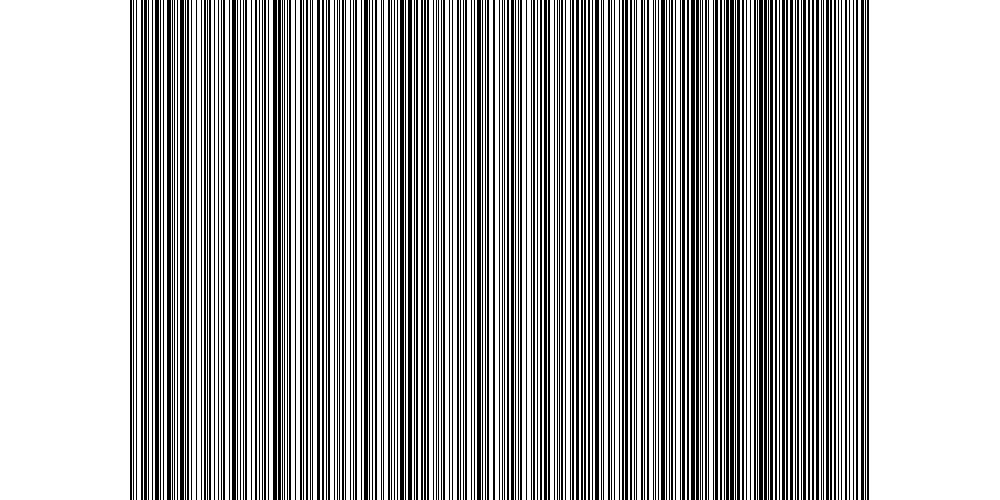
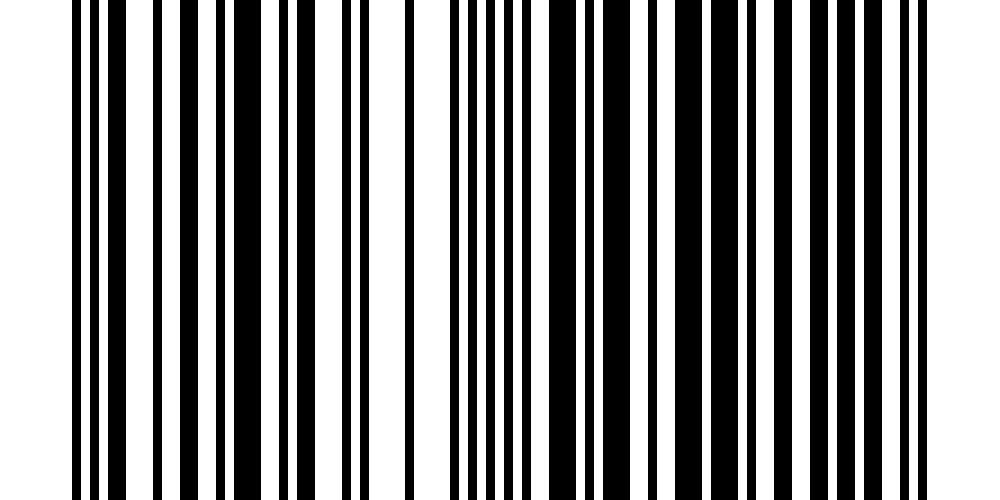
done

diff --git a/src/main/resources/public/frontend/scanner/script.js b/src/main/resources/public/frontend/scanner/script.js
@@ -1,7 +1,7 @@
 // const { Html5QrcodeScanner } = require("html5-qrcode");
 const camera = document.querySelector("#html5-qrcode-button-camera-start")
-, denied = document.querySelector(".denied")
-, granted = document.querySelector(".granted")
+// , denied = document.querySelector(".denied")
+// , granted = document.querySelector(".granted")
 const scanner =new Html5QrcodeScanner('reader',{
     qrbox:{
         width: 500,
@@ -18,19 +18,9 @@ scanner.render(success, error)
 function success(result){
    scanner.clear()
     console.log(result)
-    document.querySelector(".results").innerHTML+=`${result}<br>`
-    if(!result.includes("StoredData")){
-        setTimeout(()=>{
-            badCode();
-        }, 100)
-    }else{
-        
-         //getting uid from scan result
-    result = result.split(",")[1].split("=")[1].split(")")[0]
-        
-    console.log(result)
+    
     const data = {
-        "uid": result,
+        "idNo": result,
         "unitCode": $(".options").val()
     }
     $.ajax({
@@ -40,13 +30,17 @@ function success(result){
         data: JSON.stringify(data),
         success: function(results){
             console.log(results)
+            var newData = {
+                "idNo": results.idNo,
+                "unitCode": $(".options").val()
+            }
             if(results){
                 //found the person being authenticated
                 $.ajax({
                     type: "POST",
                     url: url+"rep/addhistory",
                     contentType: "application/json",
-                    data: JSON.stringify(data),
+                    data: JSON.stringify(newData),
                     headers:{
                         "Authorization": `Bearer ${storedData.token}`
                     },
@@ -64,25 +58,29 @@ function success(result){
     })
     }
     
-}
 
 
 function error(){
     // console.log("there was a problem")
 }
 
-
+ var results = document.querySelector(".results");
 $(".back").click(()=>{history.back()})
 
  function badCode(){ 
-    denied.play()
+    // denied.play()
+    results.style.color = "red"
+    results.innerHTML = "BAD CODE"
     scanner.render(success, error) 
     console.log("bad code provided")
   
 }
 
 function goodCode(){
-    granted.play()
+    // granted.play()
+   
+    results.style.color = "green"
+    results.innerHTML = "GOOD CODE"
     scanner.render(success, error)
     console.log("good code")
 }

diff --git a/src/main/resources/public/frontend/scanner/index.html b/src/main/resources/public/frontend/scanner/index.html
@@ -28,6 +28,10 @@
     margin: 5px;
     font-size: 15px;
     }
+    .results{
+        position: absolute;
+        font-size: 30px;
+    }
    </style>
 </head>
 <body>
@@ -41,12 +45,13 @@
     </div>
  <div class="scanner">
     <main>
-        <div id="reader"></div>
         <div class="results"></div>
+        <div id="reader"></div>
+        
     </main>
  </div>
- <audio src="../voices/accessgranted.mp3" class="granted" hidden></audio>
- <audio src="../voices/accessdenied.mp3" class="denied" hidden></audio>
+ <!-- <audio src="../voices/accessgranted.mp3" class="granted" hidden></audio>
+ <audio src="../voices/accessdenied.mp3" class="denied" hidden></audio> -->
     <script src="./node_modules/html5-qrcode/html5-qrcode.min.js"></script>
     <script src="../utility/constantholder.js"></script>
     <script src="../utility/access-storage.js"></script>

diff --git a/src/main/resources/public/frontend/TakePic/index.html b/src/main/resources/public/frontend/TakePic/index.html
@@ -15,7 +15,7 @@
     <hr>
     <div class="camera">
         <input type="text" class="name" placeholder="Enter name of the picture"><br>
-        <video class="video" src="" width="50%" height="50%" autoplay></video><br>
+        <video class="video" src="" width="800px" height="800px" autoplay></video><br>
         <button class="capture">CLICK</button>
     </div>
     

diff --git a/src/main/java/com/gatepass/GatePass/services/MainServices.java b/src/main/java/com/gatepass/GatePass/services/MainServices.java
@@ -175,12 +175,14 @@ JsonMapper jsonMapper = new JsonMapper();
         }else{
             StoredData storedData = new StoredData();
             storedData.setEmail(personel.getEmail());
-            storedData.setUid(personel.getUid());
+            String idNo = generator.genString();
+            storedData.setIdNo(idNo);
+            personel.setIdNo(idNo);
             try{
-                filePath += "\\"+personel.getEmail();
-                file.transferTo(Path.of(filePath+"-PRP.jpg"));
+                String myfile = filePath + "\\"+personel.getEmail();
+                file.transferTo(Path.of(myfile+"-PRP.jpg"));
                 generator.generateBarAndQrcode(storedData);
-                emailSender.sendEmail(new File(filePath+"-QR.jpg"), new File(filePath+"-BAR.jpg"), personel.getEmail());
+                emailSender.sendEmail(new File(myfile+"-QR.jpg"), new File(myfile+"-BAR.jpg"), personel.getEmail());
                 personelRepo.save(personel);
                 return personel;
             }catch(Exception e){
@@ -193,22 +195,38 @@ JsonMapper jsonMapper = new JsonMapper();
 
     @Override
     public Personel getPersonel(MajorQuery majorQuery) {
-        return personelRepo.findByUid(majorQuery.getUid());
+        if(majorQuery.getIdNo() != null){
+            String idNo = majorQuery.getIdNo();
+            if(idNo.length()>12){
+                return personelRepo.findByIdNo(majorQuery.getIdNo().substring(0, majorQuery.getIdNo().length()-1));
+            }else{
+                return personelRepo.findByIdNo(idNo);
+            }
+        }else{
+            return personelRepo.findByUid(majorQuery.getUid());
+        }
+      
     }
 
     @Autowired
     MyTime myTime;
     @Override
     public History addHistory(History history) {
-        history.setDate(myTime.dateToday());
+        History history2 = historyRepo.findByDateAndIdNo(myTime.dateToday(), history.getIdNo());
+        if(history2 == null){
+            history.setDate(myTime.dateToday());
         history.setTimeStamp(myTime.getTimeStamp());
         history.setStaffNo(this.getStaffNumber());
         MajorQuery majorQuery = new MajorQuery();
-        majorQuery.setUid(history.getUid());
+        majorQuery.setIdNo(history.getIdNo());
         Personel personel = this.getPersonel(majorQuery);
         history.setEmail(personel.getEmail());
         history.setFullName(personel.getFullName());
+        history.setUid(personel.getUid());
         return historyRepo.save(history);
+        }else{
+            return history2;
+        }
     }
     @Autowired
     HistoryCriteria historyCriteria;

diff --git a/src/main/java/com/gatepass/GatePass/barqrgenerator/Generator.java b/src/main/java/com/gatepass/GatePass/barqrgenerator/Generator.java
@@ -1,6 +1,7 @@
 package com.gatepass.GatePass.barqrgenerator;
 
 import java.nio.file.Paths;
+import java.util.Random;
 
 import org.springframework.beans.factory.annotation.Value;
 import org.springframework.stereotype.Component;
@@ -11,7 +12,7 @@ import com.google.zxing.MultiFormatWriter;
 import com.google.zxing.client.j2se.MatrixToImageWriter;
 import com.google.zxing.common.BitMatrix;
 import com.google.zxing.oned.Code128Writer;
-
+import com.google.zxing.oned.EAN13Writer;
 
 import lombok.extern.slf4j.Slf4j;
 
@@ -25,10 +26,11 @@ public class Generator {
     public boolean generateBarAndQrcode(StoredData storedData) throws Exception{
         log.info(filePath);
         try{
-
-            Code128Writer code128Writer = new Code128Writer();
-            BitMatrix bitMatrix = code128Writer.encode(storedData.toString(),BarcodeFormat.CODE_128, 1000, 500);
-            BitMatrix matrix = new MultiFormatWriter().encode(new String(storedData.toString()), BarcodeFormat.QR_CODE, 300, 500);
+            log.info(storedData.getIdNo());
+            // Code128Writer code128Writer = new Code128Writer();
+            EAN13Writer ean13Writer = new EAN13Writer();
+            BitMatrix bitMatrix = ean13Writer.encode(storedData.getIdNo(),BarcodeFormat.EAN_13, 1000, 500);
+            BitMatrix matrix = new MultiFormatWriter().encode(new String(storedData.getIdNo()), BarcodeFormat.QR_CODE, 300, 500);
             
             MatrixToImageWriter.writeToPath(bitMatrix, "jpg", Paths.get( filePath+"\\"+storedData.getEmail()+"-BAR.jpg"));
             MatrixToImageWriter.writeToPath(matrix, "jpg",Paths.get(filePath+"\\"+storedData.getEmail()+"-QR.jpg"));
@@ -39,5 +41,16 @@ public class Generator {
             log.warn(e.getMessage());
             return false;
         }
+    }
+
+    //to satisfy the requirements of barcode
+    public String genString(){
+        String options = "123456789";
+        Random random = new Random();
+        String string = "";
+        for(int i = 0; i<12; i++){
+            string = string+ options.charAt(random.nextInt(options.length()));
+        }
+        return string;
     }
 }

diff --git a/src/main/java/com/gatepass/GatePass/MyTest.java b/src/main/java/com/gatepass/GatePass/MyTest.java
@@ -1,0 +1,22 @@
+package com.gatepass.GatePass;
+
+import com.gatepass.GatePass.repo.HistoryRepo;
+import lombok.extern.slf4j.Slf4j;
+import org.junit.jupiter.api.Assertions;
+import org.junit.jupiter.api.Test;
+import org.springframework.beans.factory.annotation.Autowired;
+import org.springframework.boot.test.context.SpringBootTest;
+
+@SpringBootTest
+@Slf4j
+public class MyTest {
+    @Autowired
+    HistoryRepo historyRepo;
+
+
+    @Test
+    void testSaveHistory(){
+        log.info("hello test");
+    Assertions.assertEquals(null,historyRepo.findByDateAndIdNo("14-02-2024","1515536545912"), "Results should be null");
+    }
+}

diff --git a/src/main/java/com/gatepass/GatePass/repo/HistoryRepo.java b/src/main/java/com/gatepass/GatePass/repo/HistoryRepo.java
@@ -1,8 +1,11 @@
 package com.gatepass.GatePass.repo;
 
 import org.springframework.data.jpa.repository.JpaRepository;
+import org.springframework.data.jpa.repository.Query;
 
 import com.gatepass.GatePass.entities.History;
 
 public interface HistoryRepo extends JpaRepository<History, Integer>{
+    @Query("FROM History h WHERE h.date = ?1 AND h.idNo=?2")
+    public History findByDateAndIdNo(String date, String idNo);
 }

diff --git a/src/main/java/com/gatepass/GatePass/repo/PersonelRepo.java b/src/main/java/com/gatepass/GatePass/repo/PersonelRepo.java
@@ -6,4 +6,5 @@ import com.gatepass.GatePass.entities.Personel;
 
 public interface PersonelRepo extends JpaRepository<Personel, Integer>{
     public Personel findByUid(String uid);
+    public Personel findByIdNo(String idNo);
 }

diff --git a/src/main/java/com/gatepass/GatePass/entities/History.java b/src/main/java/com/gatepass/GatePass/entities/History.java
@@ -19,4 +19,5 @@ public class History {
     private String timeStamp;
     private String unitCode;
     private String staffNo;
+    private String idNo;
 }

diff --git a/src/main/java/com/gatepass/GatePass/dtos/MajorQuery.java b/src/main/java/com/gatepass/GatePass/dtos/MajorQuery.java
@@ -8,4 +8,5 @@ public class MajorQuery {
     private String unitCode;
     private String date;
     private String staffNo;
+    private String idNo;
 }

diff --git a/src/main/java/com/gatepass/GatePass/entities/Personel.java b/src/main/java/com/gatepass/GatePass/entities/Personel.java
@@ -15,4 +15,5 @@ public class Personel {
     private String uid;
     private String email;
     private String fullName;
+    private String idNo;
 }

diff --git a/src/main/java/com/gatepass/GatePass/dtos/StoredData.java b/src/main/java/com/gatepass/GatePass/dtos/StoredData.java
@@ -5,5 +5,5 @@ import lombok.Data;
 @Data
 public class StoredData {
     private String email;
-    private String uid;
+    private String idNo;
 }
